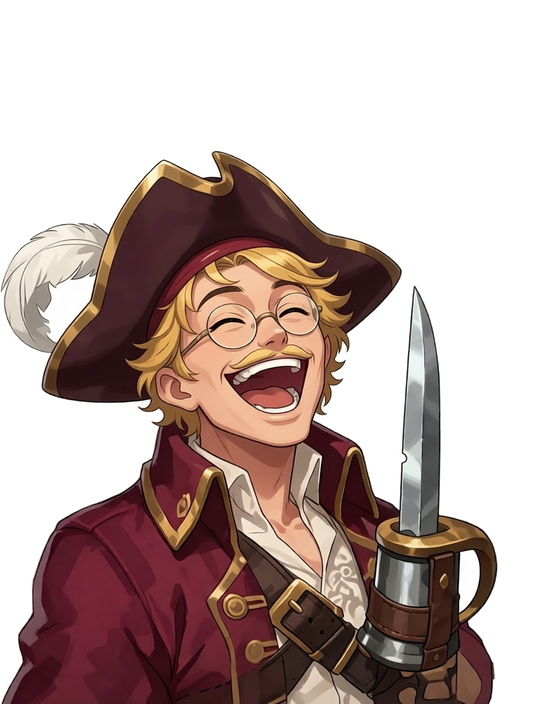
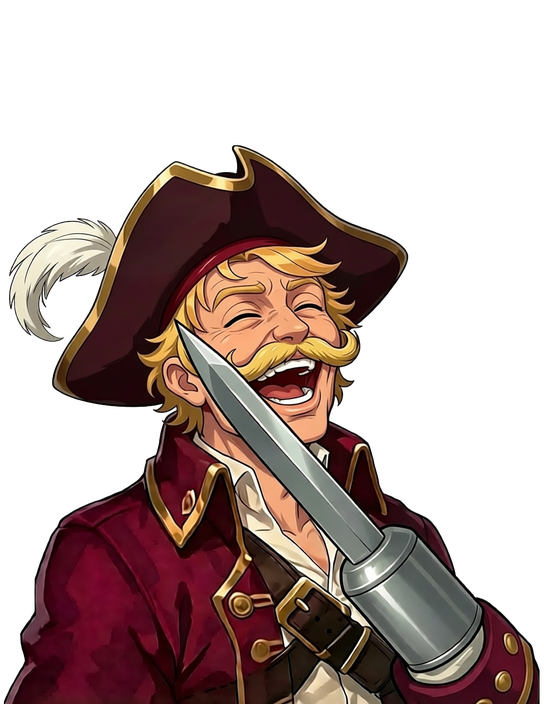
Pablo con mas edad y sin empunadura, y correcciones del nivel 5
Arte: Pablo pasa a aparentar 40 anos y la protesis pierde todo lo que
parecia una espada — el antebrazo acaba en un casquillo de acero CERRADO
del que sale una hoja mas corta, en diagonal siguiendo la linea del brazo.
Las siete expresiones se rederivan de esa base y el fondo se quita con
removeBackground (la inundacion por umbral dejaba blancos).

Pablo tiene ya su propio icono de cabeza en el HUD: la fila sigue contando
por tipo, pero la cara sale del PERSONAJE del primero de ese tipo que
llego (`head_who`), no del tipo a secas.

`gift_recipes` en el puerto: lo que David regala dentro del nivel entra en
la carta de los puertos siguientes —y en la del suyo al repetirlo— y se
desbloquea al superar el nivel. Sin esto el nigiri de atun del nivel 3 no
salia luego en el 5, y el tsuke don podia quedarse sin aprender.

Nivel 5 a 2:00 y 65 monedas.

El tsuke don corrige sus pasos: UN solo corte al salmon (queda el sashimi)
y, tras dejarlo en la soja, la tabla vuelve al CUENCO DE ARROZ, que es
donde van el wakame y el pepino; el salmon se vuelca al final.

diff --git a/CLAUDE.md b/CLAUDE.md
@@ -116,7 +116,17 @@ Godot está en `C:/Users/KOPURISTA/Desktop/GODOT/Godot_v4.7.1-stable_win64.exe/`
   propio (`client3d.who_override` → `CharacterData.MODELS`), sin tocar el
   equilibrio: come, paga y aguanta como los de su tipo. Con `late_type` del
   mismo tipo, entra el último. Lo usa Pablo el Rubio en el nivel 5. La fila de
-  cabezas del HUD sigue contándolo como capitán (no tiene icono propio).
+  cabezas del HUD sigue contando por TIPO, pero la CARA sale de `head_who`
+  (el personaje del primero de ese tipo que llegó), así que en el nivel 5 el
+  capitán de la fila es Pablo. Su icono lo genera `tools/head_icons.gd` como
+  el resto, con un encuadre propio en `FRAME_OVERRIDE` (su sombrero es mucho
+  más alto y se le cortaba por arriba).
+- **`gift_recipes` en un puerto**: recetas que REGALA David dentro del nivel
+  (el nigiri de atún del 3, el tsuke don del 5). No están en `reward_recipes`,
+  así que hay que declararlas para dos cosas: `recipes_for_port` las suma a la
+  carta de los puertos siguientes —y a la del suyo propio, para cuando se
+  repite— y `complete_port` las desbloquea al superar el nivel, por si la
+  partida se cerró por objetivo antes de que David llegara a darlas.
 - **`prep_board.free_mistakes`**: mientras un guion ESTÁ ENSEÑANDO un gesto,
   fallar el corte lento no cuesta dinero (el aviso y el destello rojo siguen).
   El guion se entera por la señal `slice_failed`, aparte de `money_penalty`
@@ -277,13 +287,25 @@ Godot está en `C:/Users/KOPURISTA/Desktop/GODOT/Godot_v4.7.1-stable_win64.exe/`
   Rubio** (`assets/characters/pablo/pablo_<mood>.png`, 7: serio, hablando,
   feliz, riendo, sorprendido, guason y punal). Todas
   derivadas por `editImage` del mismo base para conservar la identidad.
-  **La navaja de Pablo costó cinco intentos**: pedir "un puñal en lugar de
-  mano" da SIEMPRE una mano sosteniendo un puñal, por mucho que se prohíban
-  los dedos. Lo que funcionó fue describirlo como PRÓTESIS con la referencia
-  del garfio: "su antebrazo acaba en un casquillo de metal y cuero del que
-  sale una hoja recta EN LA MISMA DIRECCIÓN del antebrazo, como el garfio de
-  un pirata pero con hoja". Y una vez conseguida, las expresiones se derivan
-  repitiendo esa descripción como invariante en cada `editImage`.
+  **La navaja de Pablo costó una docena de intentos**: pedir "un puñal en
+  lugar de mano" da SIEMPRE una mano sosteniendo un puñal, por mucho que se
+  prohíban los dedos. Lo que funcionó fue describirlo como PRÓTESIS con la
+  referencia del garfio y por PIEZAS, en orden desde el hombro: "manga, correa
+  de cuero, CASQUILLO DE ACERO CERRADO que sella el muñón, y la hoja saliendo
+  del centro de ese casquillo en la misma dirección del antebrazo".
+  Reglas que salieron de ahí y conviene no volver a aprender:
+  1) **un cambio por pasada**. Envejecerlo Y arreglarle el brazo a la vez
+  devolvía siempre la mano con empuñadura; por separado salió a la primera.
+  2) Todo lo que suene a *dibujar más brazo* ("enséñame el antebrazo", "aleja
+  la cámara") reintroduce la mano; lo que sí funciona es enumerar las piezas.
+  3) Al envejecerlo **se le cae el bigote**: hay que devolvérselo en otra
+  pasada. 4) En las expresiones hay que blindar la hoja ("delante de la
+  mejilla, con su contorno, sin cruzar los ojos ni la cabeza") y prohibir
+  explícitamente la perilla, o aparecen solas.
+  El FONDO BLANCO no se quita por inundación: se pasa cada expresión por el
+  `removeBackground` de Ludo y se compone después el lienzo (`AIRE` sobre la
+  cabeza para que su cara mida como la de David: el recorte de Ludo va a
+  sangre y sin ese aire se veía un palmo más grande que los demás).
   David lleva SIEMPRE a su loro **Gigi** al hombro, y por eso sus moods van en
   dos familias: con el loro CALLADO (serio, hablando, feliz, riendo,
   sorprendido, gritando, triste, mira_loro) y con el loro CHILLANDO con las
